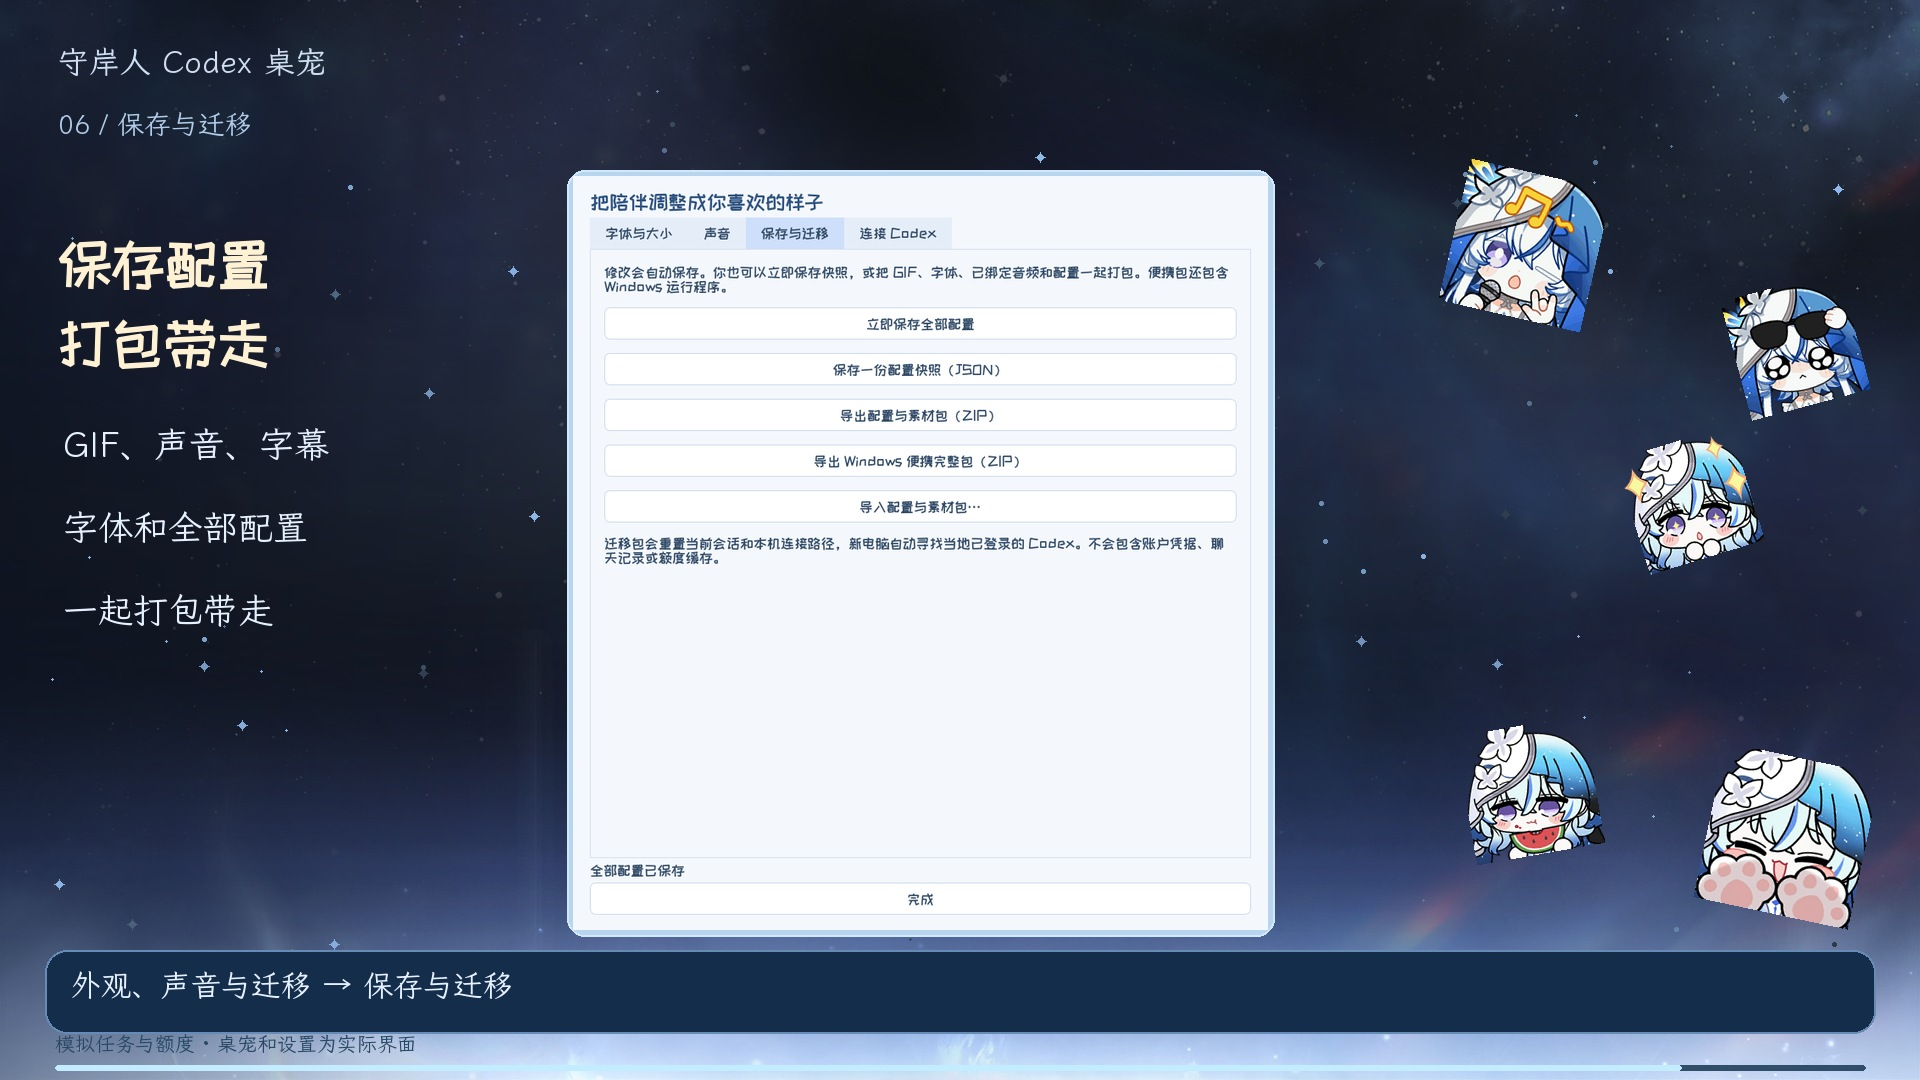
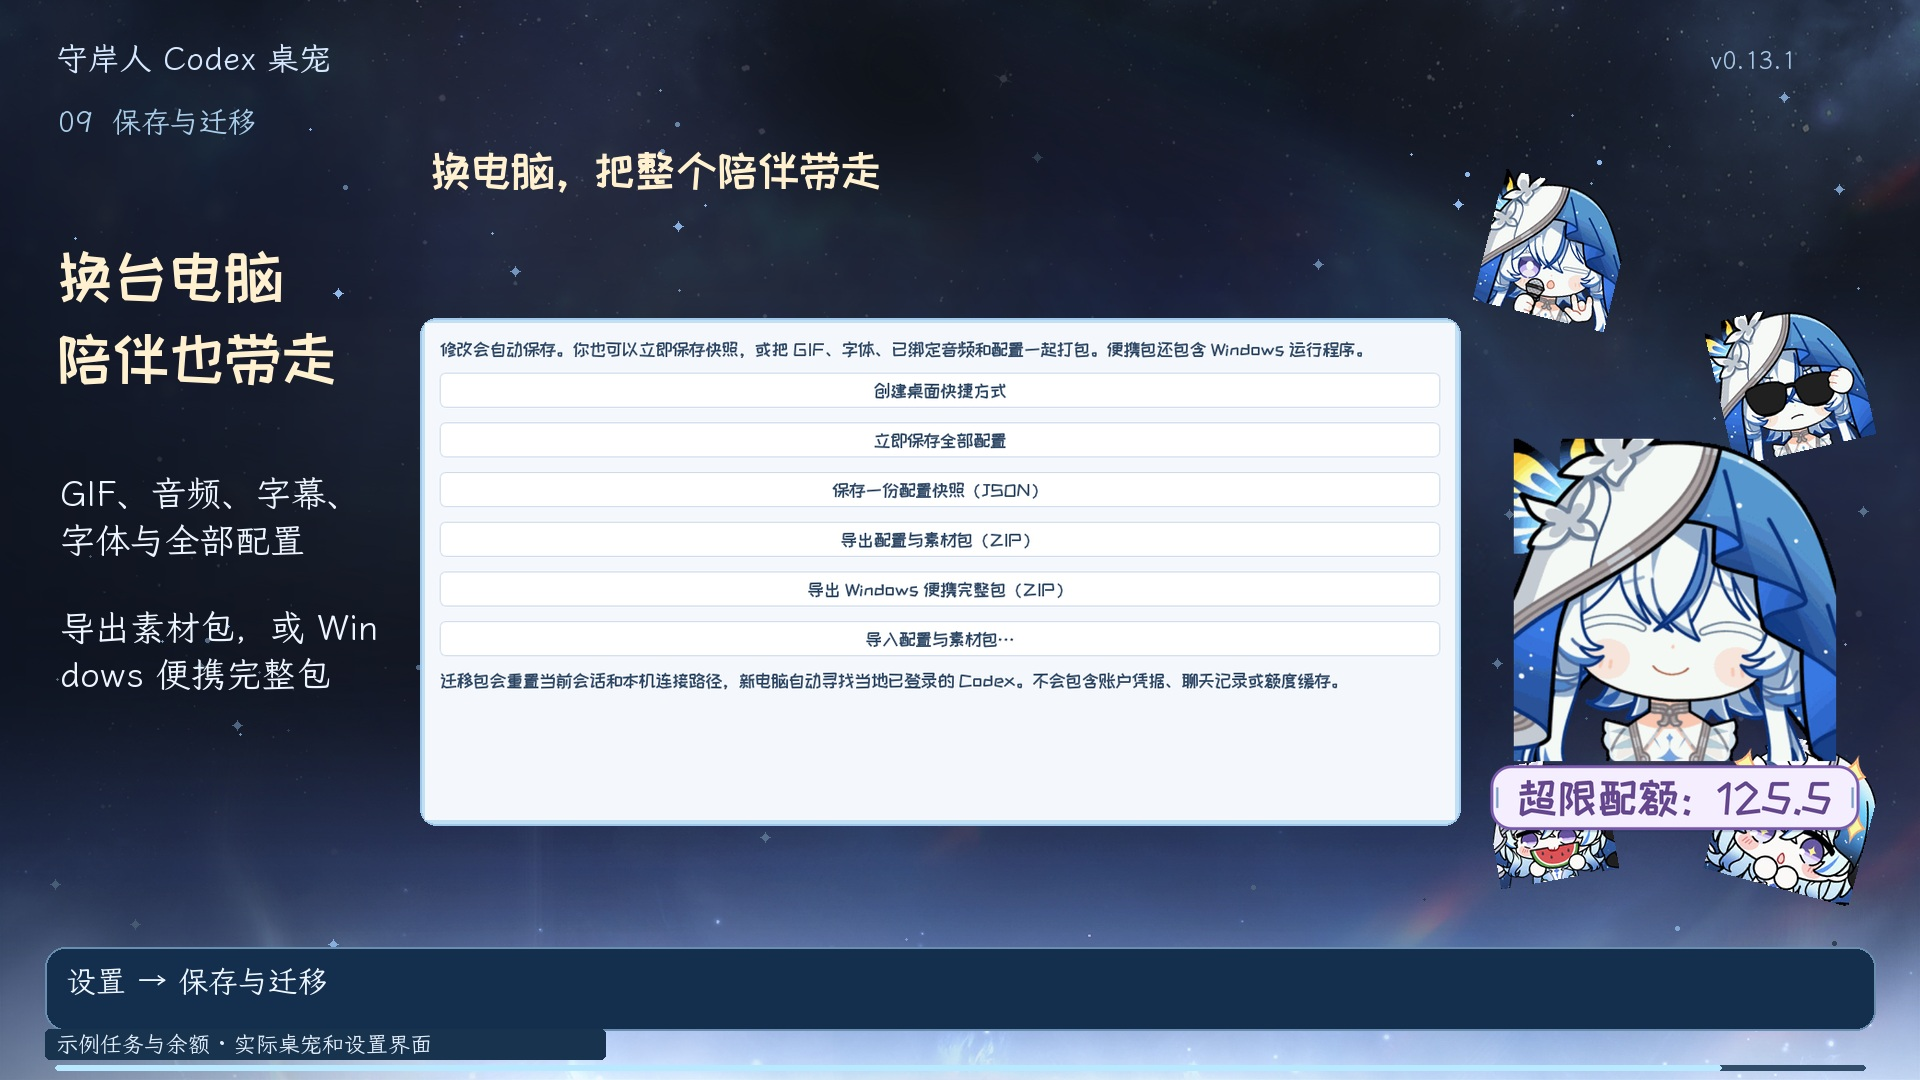
docs: refresh complete feature tours for v0.13.1

diff --git a/README.en.md b/README.en.md
@@ -8,7 +8,7 @@
 
 **A desktop companion that changes expressions with your Codex tasks, with customizable GIFs, voices, and speech bubbles.**
 
-[Download for Windows](https://github.com/Doya16/shorekeeper-codex-pet/releases/latest) · [Watch the demo](https://github.com/Doya16/shorekeeper-codex-pet/releases/download/v0.9.1/shorekeeper-landscape-v091.mp4) · [User guide (Chinese)](docs/USAGE.md) · [Report an issue](https://github.com/Doya16/shorekeeper-codex-pet/issues)
+[Download for Windows](https://github.com/Doya16/shorekeeper-codex-pet/releases/latest) · [Watch the demo](https://github.com/Doya16/shorekeeper-codex-pet/releases/download/v0.13.1/shorekeeper-codex-landscape-v0131.mp4) · [User guide (Chinese)](docs/USAGE.md) · [Report an issue](https://github.com/Doya16/shorekeeper-codex-pet/issues)
 
 ![Shorekeeper Codex Desktop Pet: custom expressions and voice interactions](docs/social/cover-landscape.jpg)
 
@@ -22,22 +22,32 @@ A [DeepSeek Harness edition](https://github.com/Doya16/shorekeeper-deepseek-pet)
 
 ## Preview
 
-![Simulated Codex interaction: thinking, reading, editing, and separate project completion notifications](docs/social/showcase.gif)
+![Current task interactions and new desktop controls](docs/social/showcase.gif)
 
-[Landscape video: interactions and the full settings walkthrough](https://github.com/Doya16/shorekeeper-codex-pet/releases/download/v0.9.1/shorekeeper-landscape-v091.mp4) · [Portrait video](https://github.com/Doya16/shorekeeper-codex-pet/releases/download/v0.9.1/shorekeeper-portrait-v091.mp4)
+[Landscape · 1920×1080](https://github.com/Doya16/shorekeeper-codex-pet/releases/download/v0.13.1/shorekeeper-codex-landscape-v0131.mp4) · [Portrait · 1080×1920](https://github.com/Doya16/shorekeeper-codex-pet/releases/download/v0.13.1/shorekeeper-codex-portrait-v0131.mp4)
 
-The **1 minute 50 second** video, recorded with **v0.9.1**, shows simulated Codex conversations and editing, separate completion notifications for multiple projects, mouse interactions, and the settings available in that release. **The Codex window is a simulation with fictional projects, conversations, and quota values.** The pet, speech bubbles, and settings panels show the recorded version. See below for later additions, including update notifications. The video uses Chinese UI labels and character voices.
+The **03:11** walkthrough uses **v0.13.1**, with new recordings of the pet and current settings. It covers task interactions, multiple conversation notifications, custom media, lock and click-through, mute, balance refresh, sizing, app icons, client lifecycle, update sources, and complete migration. Portrait and landscape use separate layouts.
+
+**The client window, tasks, balances and available-update notification are examples.** Pet animations and settings are rendered from the current application. The video uses Chinese labels and character voices.
 
 | Time | Demonstration |
 | --- | --- |
-| 00:01 | Thinking, reading, and editing; the opening voice plays once per task |
-| 00:19 | One project finishes, then the pet returns to another project's editing state |
-| 00:41 | Dragging, dropping, double-clicking, and head pats, with complete voice playback |
-| 00:57 | GIF selection, playback settings, multiple voices, and individually paired subtitles |
-| 01:19 | Idle voice frequency, live resizing, and launching with Codex |
-| 01:37 | Saving all settings and exporting a complete portable package |
+| 00:01 | Task states and one opening voice per turn |
+| 00:30 | Separate completion notifications |
+| 00:50 | Dragging, dropping, double-clicking and head pats |
+| 01:06 | Hover lock, click-through, fade and mute |
+| 01:24 | Visible balance refresh and account display |
+| 01:36 | GIFs, playback, paired audio/captions and frequency |
+| 02:14 | Sizing, fonts and app-badged icons |
+| 02:31 | Client lifecycle, update notifications and download sources |
+| 02:53 | Save, migration and desktop shortcuts |
+| 03:03 | Download and setup |
 
-![One project finishes while another continues editing](docs/social/multi-project.jpg)
+![One conversation finishes while another continues editing](docs/social/multi-project.jpg)
+
+| Lock and click-through | Visible balance refresh |
+| --- | --- |
+| ![Hover lock and fade](docs/social/lock-click-through.jpg) | ![Inline refresh state](docs/social/balance-refresh.jpg) |
 
 ## Download and get started
 
@@ -129,7 +139,7 @@ Bubble width and quota bar size can be adjusted and previewed independently, the
 
 The bar shows **算力配额：98%** (included usage remaining) for the account's usage window. It is not money or a fixed number of requests. When the allowance is exhausted and the account returns a credit balance, the bar switches to **超限配额：1,234.56** (credit balance), with a purple border and centered text in a compact frame, without space reserved for a progress bar. The included-usage frame uses a soft Shorekeeper blue palette.
 
-Credit mode refreshes about every **30 seconds**; included usage refreshes about every **2 minutes**. Right-click → **刷新额度** to refresh immediately. After the allowance resets, the percentage display returns. Hover to see the full balance, usage windows, and reset times. Missing balances stay unknown; failed refreshes mark the last reading as cached.
+Credit mode refreshes about every **30 seconds**; included usage refreshes about every **2 minutes**. Right-click → **刷新额度** to refresh immediately. After the allowance resets, the percentage display returns. Hover to see the next reset date, time, and countdown. Missing balances stay unknown; failed refreshes mark the last reading as cached.
 
 Credit consumption depends on model, input/output, caching, and other usage factors. Credits are separate from the included allowance; showing a balance does not establish that an individual request was billed. See the [official usage guide](https://learn.chatgpt.com/docs/pricing).
 
@@ -159,7 +169,7 @@ Supported images: GIF, animated WebP, PNG, JPG/JPEG, and static WebP. Audio: WAV
 
 If a voice clip's paired text is empty, that clip displays no bubble. When using default content or **使用我的台词** (use my lines), the bubble shows only the selected content. Other lines you have entered are retained and can be edited again after switching modes.
 
-**Resizing:** right-click → **调整大小** (Resize), or hold **Ctrl + mouse wheel** while hovering over the pet. Bubble width and quota bar size have separate sliders and percentage fields. Enable **显示气泡预览（无声音）** (show bubble preview, without sound) to adjust the bubble even when no line is playing. Drag either edge of a visible bubble or either side of the quota bar; text scales along with it. Changes save automatically, and subsequent overall resizing preserves both relative proportions.
+**Resizing:** right-click → **设置 → 字体与大小** (Settings → Fonts & Size), or hold **Ctrl + mouse wheel** while hovering over the pet. Bubble width and quota bar size have separate sliders and percentage fields. Enable **显示气泡预览（无声音）** (show bubble preview, without sound) to adjust the bubble even when no line is playing. Drag either edge of a visible bubble or either side of the quota bar; text scales along with it. Changes save automatically, and subsequent overall resizing preserves both relative proportions.
 
 ![Live preview of bubble width and quota bar size](docs/social/size-preview.jpg)
 
@@ -185,7 +195,7 @@ On another computer, install Codex and sign in, fully extract the portable packa
 
 **Expressions do not follow a new task?** Open **设置 → 连接 Codex → 跟随的会话** and select **自动跟随最近活动** (automatically follow the current task). Change a pinned session under **设置 → 连接 Codex** (Settings → Connect to Codex).
 
-**A `*` after the quota, or `--` instead of a value?** `*` indicates cached data; `--` means no data is available. Right-click → **刷新额度** (refresh quota). Hover to see the full usage windows and reset times.
+**A `*` after the quota, or `--` instead of a value?** `*` indicates cached data; `--` means no data is available. Right-click → **刷新额度** (refresh quota). Hover to see the next reset date, time, and countdown.
 
 **Some numeric fields are greyed out?** The current mode does not use that setting. Hover for a hint. For example, adjusting the hold time after a single playback requires a compatible playback mode.
 

diff --git a/README.md b/README.md
@@ -8,7 +8,7 @@
 
 **跟随 Codex 任务切换表情，支持自定义 GIF、语音和气泡台词。**
 
-[下载 Windows 版](https://github.com/Doya16/shorekeeper-codex-pet/releases/latest) · [观看演示](https://github.com/Doya16/shorekeeper-codex-pet/releases/download/v0.9.1/shorekeeper-landscape-v091.mp4) · [使用指南](docs/USAGE.md) · [问题反馈](https://github.com/Doya16/shorekeeper-codex-pet/issues)
+[下载 Windows 版](https://github.com/Doya16/shorekeeper-codex-pet/releases/latest) · [观看演示](https://github.com/Doya16/shorekeeper-codex-pet/releases/download/v0.13.1/shorekeeper-codex-landscape-v0131.mp4) · [使用指南](docs/USAGE.md) · [问题反馈](https://github.com/Doya16/shorekeeper-codex-pet/issues)
 
 ![守岸人 Codex 桌宠：自选表情与语音互动](docs/social/cover-landscape.jpg)
 
@@ -22,22 +22,32 @@
 
 ## 效果预览
 
-![Codex 模拟交互：思考、查阅、编辑与多项目完成提醒](docs/social/showcase.gif)
+![最新版任务互动、锁定穿透与额度刷新](docs/social/showcase.gif)
 
-[横屏视频：互动与完整设置演示](https://github.com/Doya16/shorekeeper-codex-pet/releases/download/v0.9.1/shorekeeper-landscape-v091.mp4) · [竖屏视频](https://github.com/Doya16/shorekeeper-codex-pet/releases/download/v0.9.1/shorekeeper-portrait-v091.mp4)
+[横屏演示 · 1920×1080](https://github.com/Doya16/shorekeeper-codex-pet/releases/download/v0.13.1/shorekeeper-codex-landscape-v0131.mp4) · [竖屏演示 · 1080×1920](https://github.com/Doya16/shorekeeper-codex-pet/releases/download/v0.13.1/shorekeeper-codex-portrait-v0131.mp4)
 
-演示录制于 **v0.9.1**，约 **1 分 50 秒**，包含模拟 Codex 对话、逐行编辑、多个项目分别完成的提醒，以及鼠标互动和完整设置。**Codex 窗口为模拟交互，项目、对话和额度均为示例**；桌宠、气泡和设置面板为录制版本的实际界面。启动检查更新等后续功能见下方说明。
+演示对应 **v0.13.1**，时长 **03:11**。全部换成当前桌宠与设置界面，展示任务跟随、多会话完成提醒、自选素材、语音字幕、锁定穿透、快捷静音、余额刷新、大小字体、图标、启停联动、更新来源与完整迁移。横屏、竖屏分别排版。
+
+**客户端窗口、任务、余额和新版提醒为示例；桌宠与设置为当前版本实际界面。**
 
 | 时间 | 展示内容 |
 | --- | --- |
-| 00:01 | 思考 → 查阅 → 编辑；回到思考时不重复开场语音 |
-| 00:19 | 第一个项目完成时提醒，随后恢复另一项目的编辑表情 |
-| 00:41 | 拖动、放下、双击和摸头，语音完整播放 |
-| 00:57 | 自选 GIF、播放节奏、多条语音与逐条字幕配对 |
-| 01:19 | 待机语音频率、实时调整大小、随 Codex 启动 |
-| 01:37 | 保存全部配置，导出便携完整包 |
+| 00:01 | 跟随任务 |
+| 00:30 | 多个会话 |
+| 00:50 | 桌面互动 |
+| 01:06 | 更轻巧的陪伴 |
+| 01:24 | 额度与余额 |
+| 01:36 | 自己搭配 |
+| 02:14 | 外观与摆放 |
+| 02:31 | 启停与更新 |
+| 02:53 | 保存与迁移 |
+| 03:03 | 下载与使用 |
 
-![一个项目完成时，另一个项目继续编辑](docs/social/multi-project.jpg)
+![一个会话完成时，另一个继续编辑](docs/social/multi-project.jpg)
+
+| 锁定、淡化与点击穿透 | 底部余额框刷新反馈 |
+| --- | --- |
+| ![悬停小锁与点击穿透](docs/social/lock-click-through.jpg) | ![余额框内显示刷新中](docs/social/balance-refresh.jpg) |
 
 ## 下载与使用
 
@@ -132,7 +142,7 @@
 
 底部的 **算力配额：98%** 表示套餐时间窗口内的可用比例，不是现金或固定提问次数。套餐耗尽后，如果账户提供了 credits 余额，会自动切换为 **超限配额：1,234.56**（额外点数余额），使用紫色边框，文字水平、垂直居中，框体不再保留进度条空位。套餐额度框采用柔和的守岸人蓝色。实际数值以当前账户为准。
 
-点数模式约每 **30 秒**读取一次，套餐模式约每 **2 分钟**读取一次；可右键 → **刷新额度**立即刷新。套餐重置后自动恢复百分比显示。悬停可查看完整点数余额、各窗口剩余比例和重置时间；余额未返回时显示未知，读取失败时标记缓存，不把未知当作零。
+点数模式约每 **30 秒**读取一次，套餐模式约每 **2 分钟**读取一次；可右键 → **刷新额度**立即刷新。套餐重置后自动恢复百分比显示。悬停可查看下次刷新日期与倒计时；余额未返回时显示未知，读取失败时标记缓存，不把未知当作零。
 
 点数消耗与所用模型、输入输出和缓存等因素有关。点数余额与套餐额度分别计算；余额本身不说明某条请求已经扣费。见 [官方用量说明](https://learn.chatgpt.com/docs/pricing) 和 [显示状态说明](docs/USAGE.md#大小配额与跟随会话)。
 
